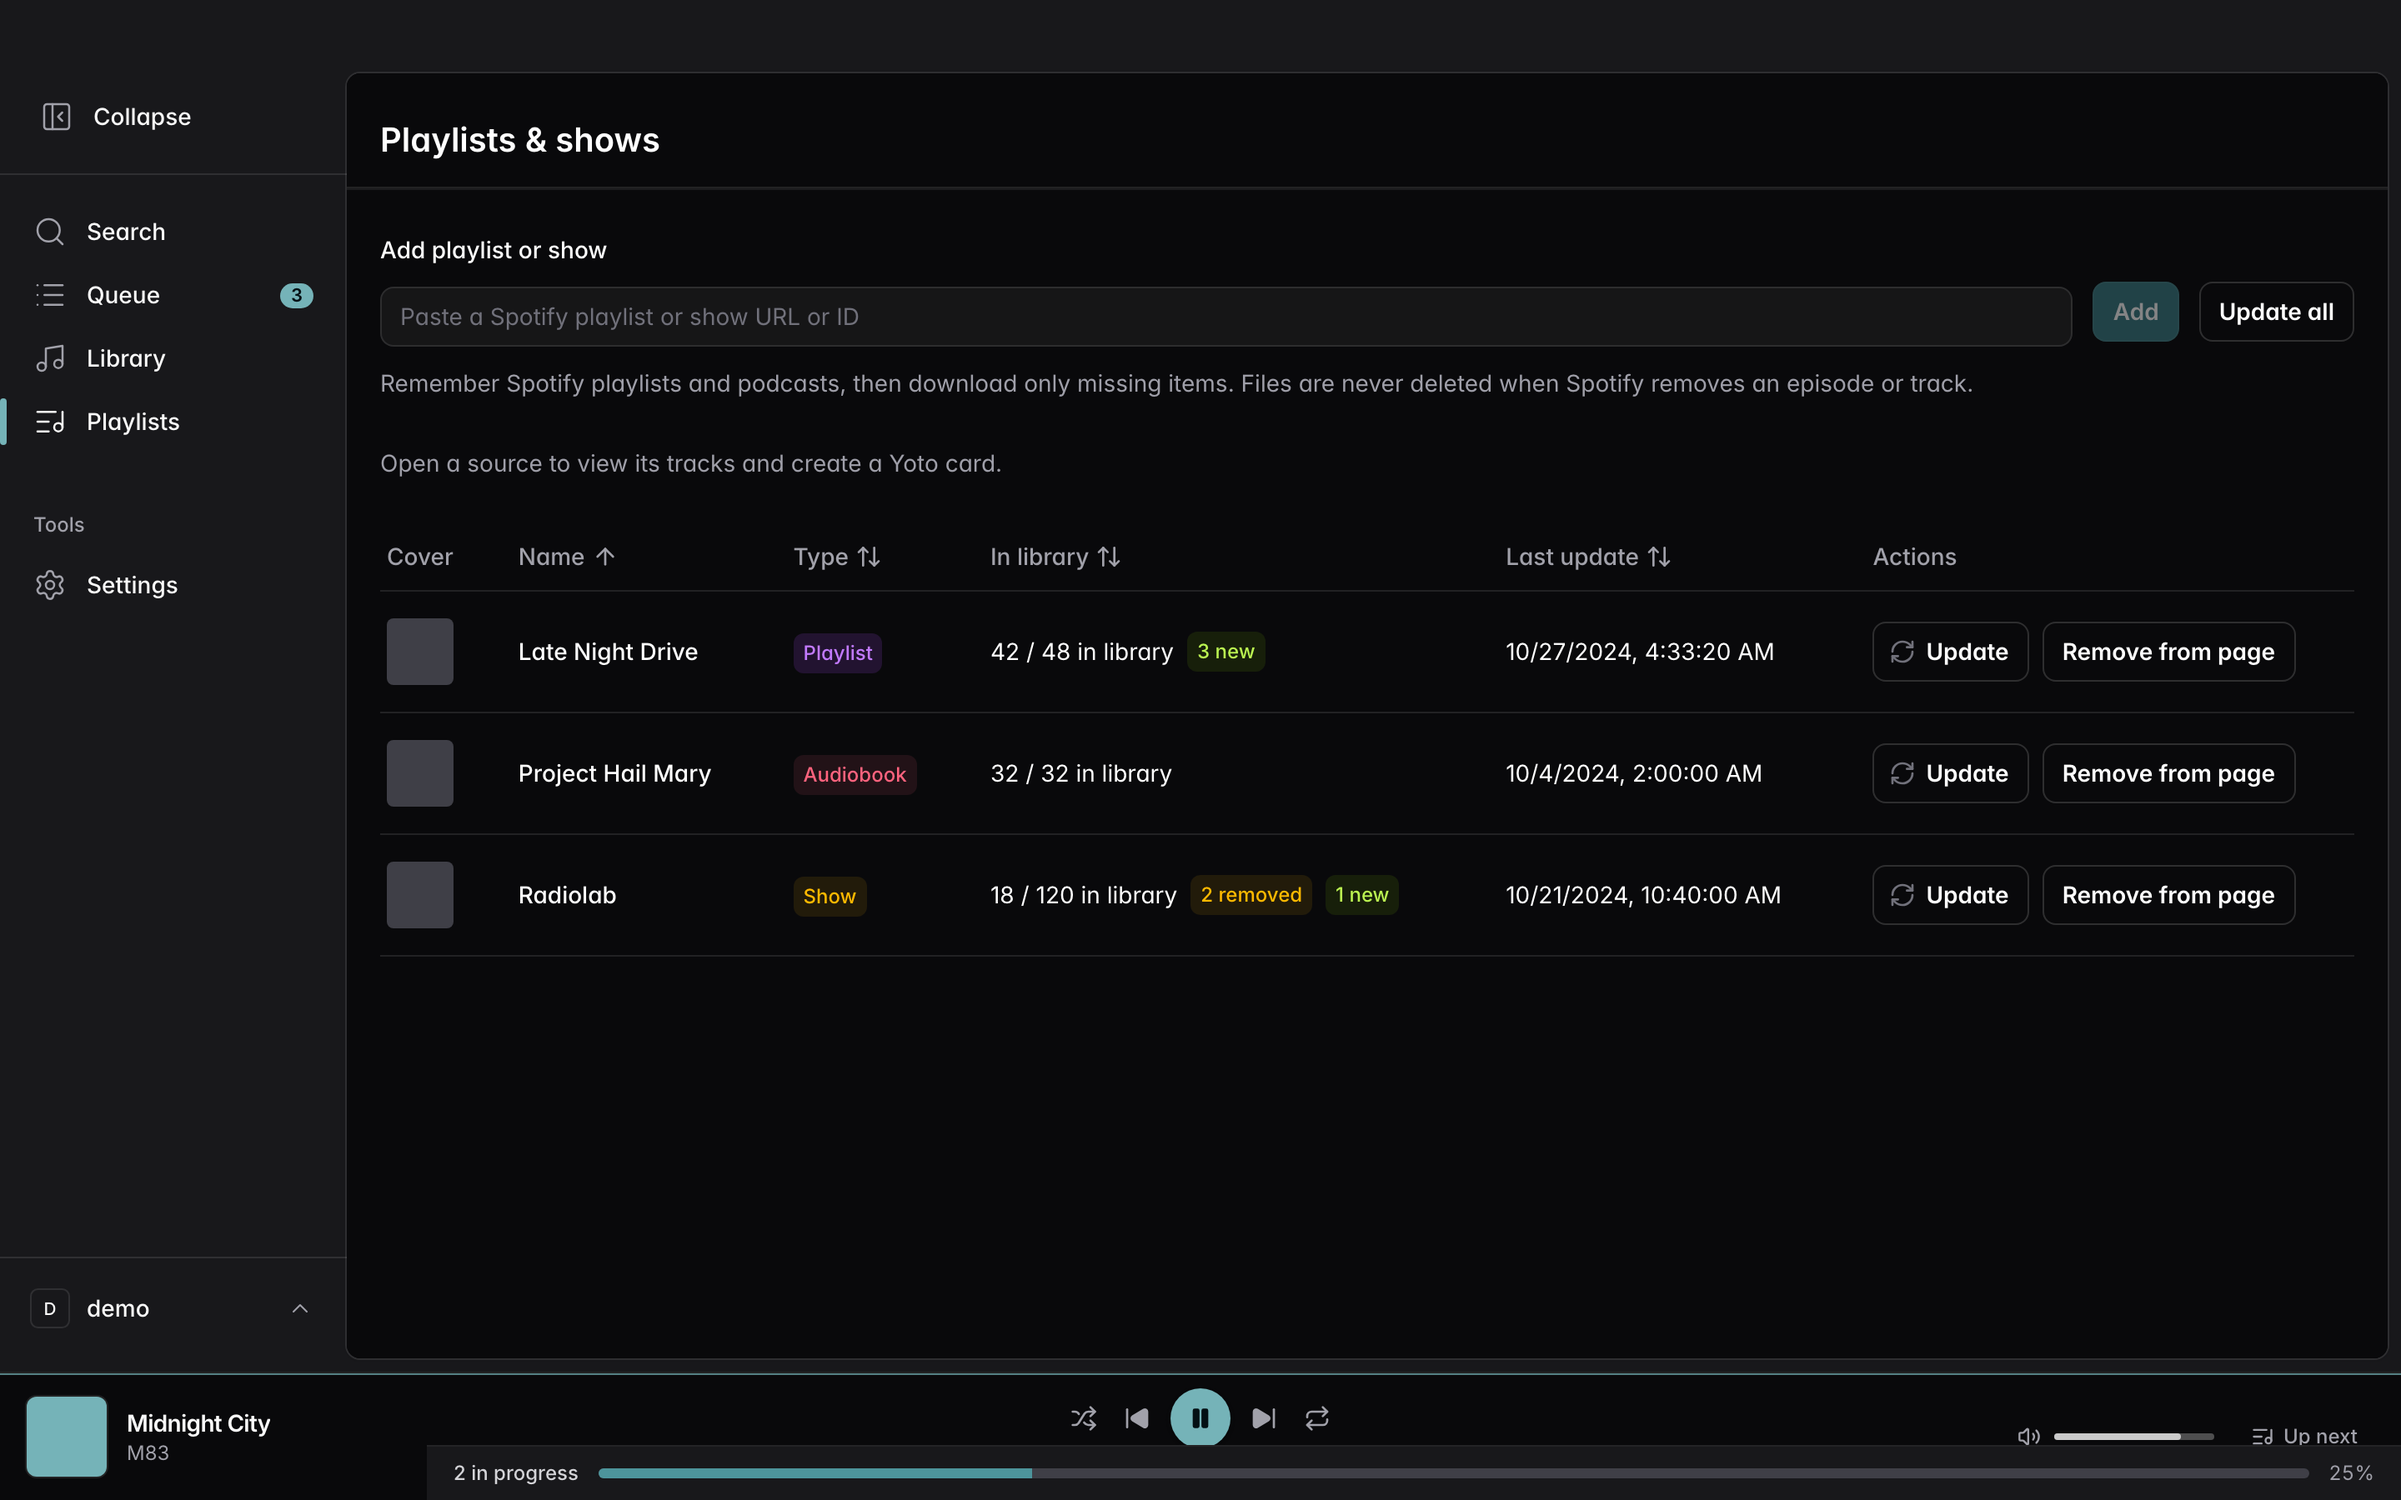
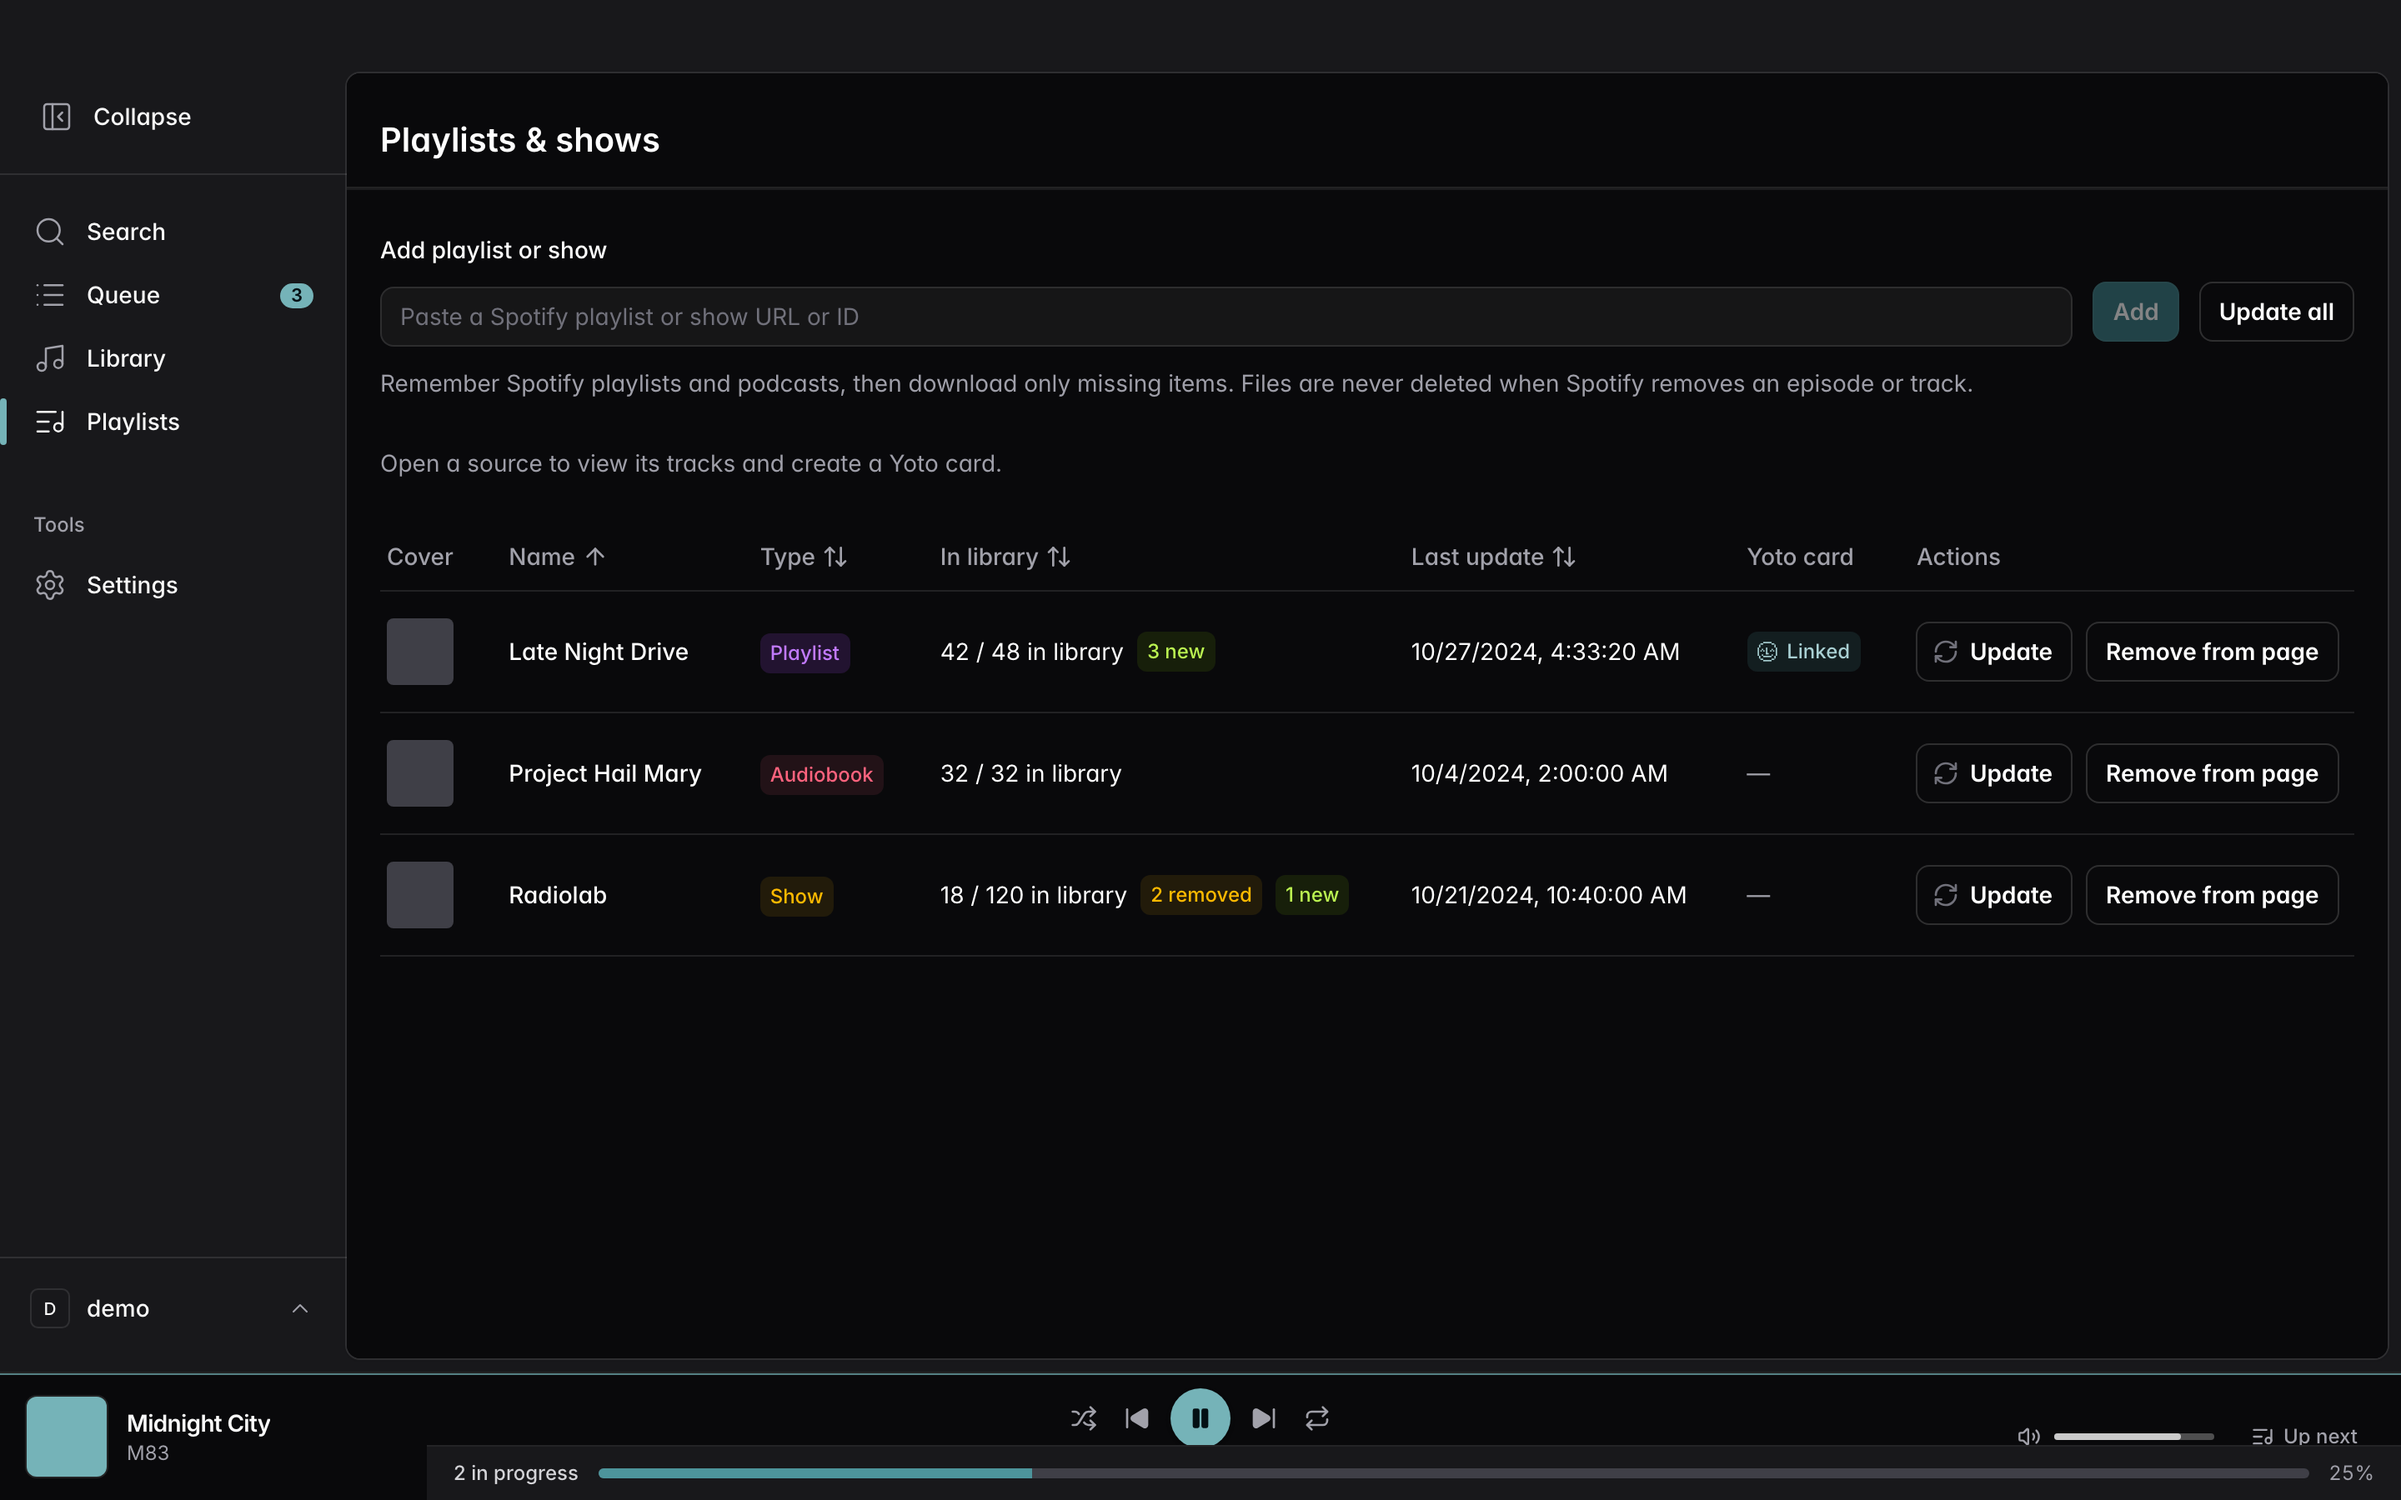
docs: add Yoto card screenshot to README gallery
Show the playlists Yoto column and the card editor alongside the other product screenshots.

diff --git a/README.fr.md b/README.fr.md
@@ -30,11 +30,13 @@ Sous macOS, le premier lancement peut nécessiter un clic droit → **Ouvrir**.
 <p align="center">
   <img src="images/playlists.png" alt="Playlists, shows et livres audio suivis" width="720" />
   &nbsp;
-  <img src="images/settings.png" alt="Réglages de téléchargement" width="720" />
+  <img src="images/yoto.png" alt="Éditeur de carte Yoto lié à une playlist" width="720" />
 </p>
 
 <p align="center">
   <img src="images/player.png" alt="Lecteur intégré" width="720" />
+  &nbsp;
+  <img src="images/settings.png" alt="Réglages de téléchargement" width="720" />
 </p>
 
 ---
@@ -45,6 +47,7 @@ Sous macOS, le premier lancement peut nécessiter un clic droit → **Ouvrir**.
 - **Téléchargements fiables** — File d’attente avec progression, retries, et sortie MP3 / AAC / FLAC avec métadonnées et pochette
 - **Bibliothèque** — Retrouvez tout ce que vous avez enregistré, contrôlez la qualité, organisez vos fichiers
 - **Suivre playlists & shows** — Mémorisez des sources et ne téléchargez que ce qui manque (aucune suppression de fichiers à la mise à jour)
+- **Cartes Yoto** — Reliez une playlist suivie à une carte Yoto, mappez les pistes et synchronisez l’audio
 - **Lecteur intégré** — Écoutez vos fichiers locaux ou streamez depuis Spotify dans la même barre
 - **Votre langue** — Interface multilingue, thèmes clair et sombre
 - **Mises à jour** — Vérifiez les nouvelles versions depuis l’app (installeurs signés depuis ce dépôt)

diff --git a/README.md b/README.md
@@ -30,11 +30,13 @@ On macOS, the first launch may require a right-click → **Open**.
 <p align="center">
   <img src="images/playlists.png" alt="Followed playlists, shows, and audiobooks" width="720" />
   &nbsp;
-  <img src="images/settings.png" alt="Download settings" width="720" />
+  <img src="images/yoto.png" alt="Yoto card editor linked to a playlist" width="720" />
 </p>
 
 <p align="center">
   <img src="images/player.png" alt="Built-in player with local playback" width="720" />
+  &nbsp;
+  <img src="images/settings.png" alt="Download settings" width="720" />
 </p>
 
 ---
@@ -45,6 +47,7 @@ On macOS, the first launch may require a right-click → **Open**.
 - **Downloads that finish** — Queue with live progress, retries, and MP3 / AAC / FLAC output with metadata and artwork
 - **Library** — Browse everything you’ve saved, check quality, and keep files organised
 - **Follow playlists & shows** — Remember sources and download only what’s missing (files are never deleted on Update)
+- **Yoto cards** — Link a followed playlist to a Yoto card, map tracks, and sync audio to the player
 - **Built-in player** — Play local files or stream from Spotify in the same bar
 - **Your language** — UI available in many languages, with light and dark themes
 - **Updates** — Check for new versions from inside the app (signed installers from this repository)
